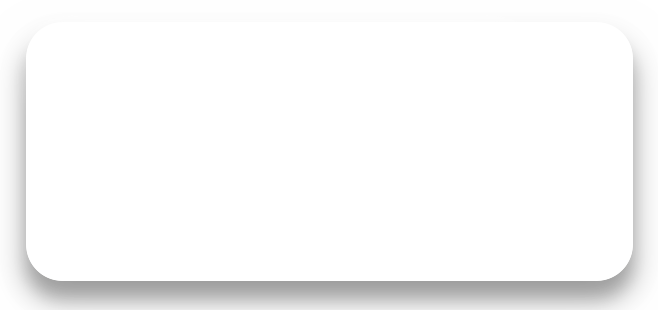
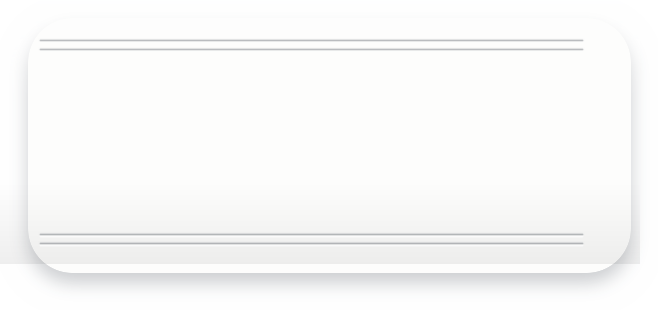
Clay preview v2: debossed groove strips (pressed-in), rebaked widget bg

Changed region(s): [[0.0304, 0.2032, 1.0, 1.0], [0.0608, 0.1161, 0.8815, 0.1742]]

diff --git a/widget-preview-clay.html b/widget-preview-clay.html
@@ -20,6 +20,11 @@
   .w-title{font:800 23px/1.18 -apple-system,"SF Pro Text",Figtree,sans-serif;color:#141414}
   .w-meta{font:700 11px Inter;letter-spacing:.14em;text-transform:uppercase;color:#6B6B66;margin-top:3px}
 
+  /* pressed-in (debossed) groove strips, like the reference's letterpress rules */
+  .strip{display:flex;flex-direction:column;gap:6px}
+  .strip i{display:block;height:2px;border-radius:2px;background:rgba(23,32,44,.16);
+    box-shadow:inset 0 1px 1.5px rgba(23,32,44,.38), 0 1.5px 0 rgba(255,255,255,.95)}
+
   /* ---------- READER ---------- */
   .reader{width:390px}
   .clay{
@@ -74,6 +79,7 @@
       <div class="r-eyebrow">Design Desk</div>
       <div class="r-title">Serif Type is a Trust Signal</div>
       <div class="r-meta">№ 2 of 6 &middot; 1 min read</div>
+      <div class="strip" style="margin:0 0 20px"><i></i><i></i></div>
       <figure class="r-plate"><img src="img/2026-10-18-2.jpg" alt=""></figure>
       <p class="r-deck">Newspapers still set headlines in serif faces for a reason. The modern twist is not the serif itself, it is what you pair it with.</p>
       <p class="r-body">A serif headline carries history: it reads as considered, editorial, finished. But the move in contemporary editorial design is contrast. One loud display face for the voice of the page, one quiet reading face for the story. Two typefaces, never three. Give the display face the emotional jobs, headlines and stamps. Give the reading face everything a reader settles into.</p>
@@ -83,6 +89,7 @@
         <a class="r-tick" href="#"><span class="r-box"></span>Mark as read</a>
         <span class="r-folio">№ <b>2</b> / 6</span>
       </div>
+      <div class="strip" style="margin:24px 0 0"><i></i><i></i></div>
     </div>
   </div>
 </div>
